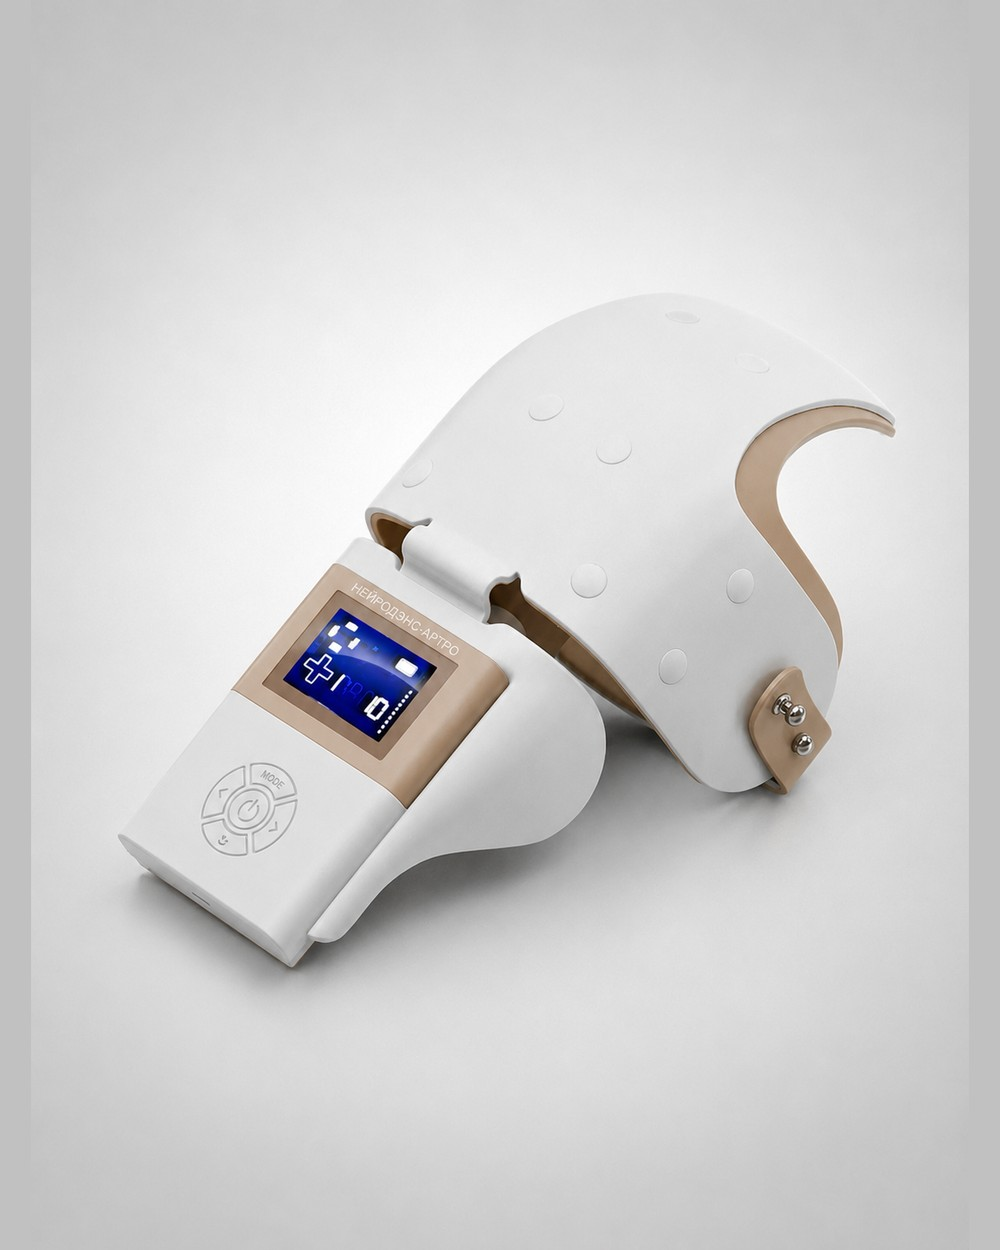
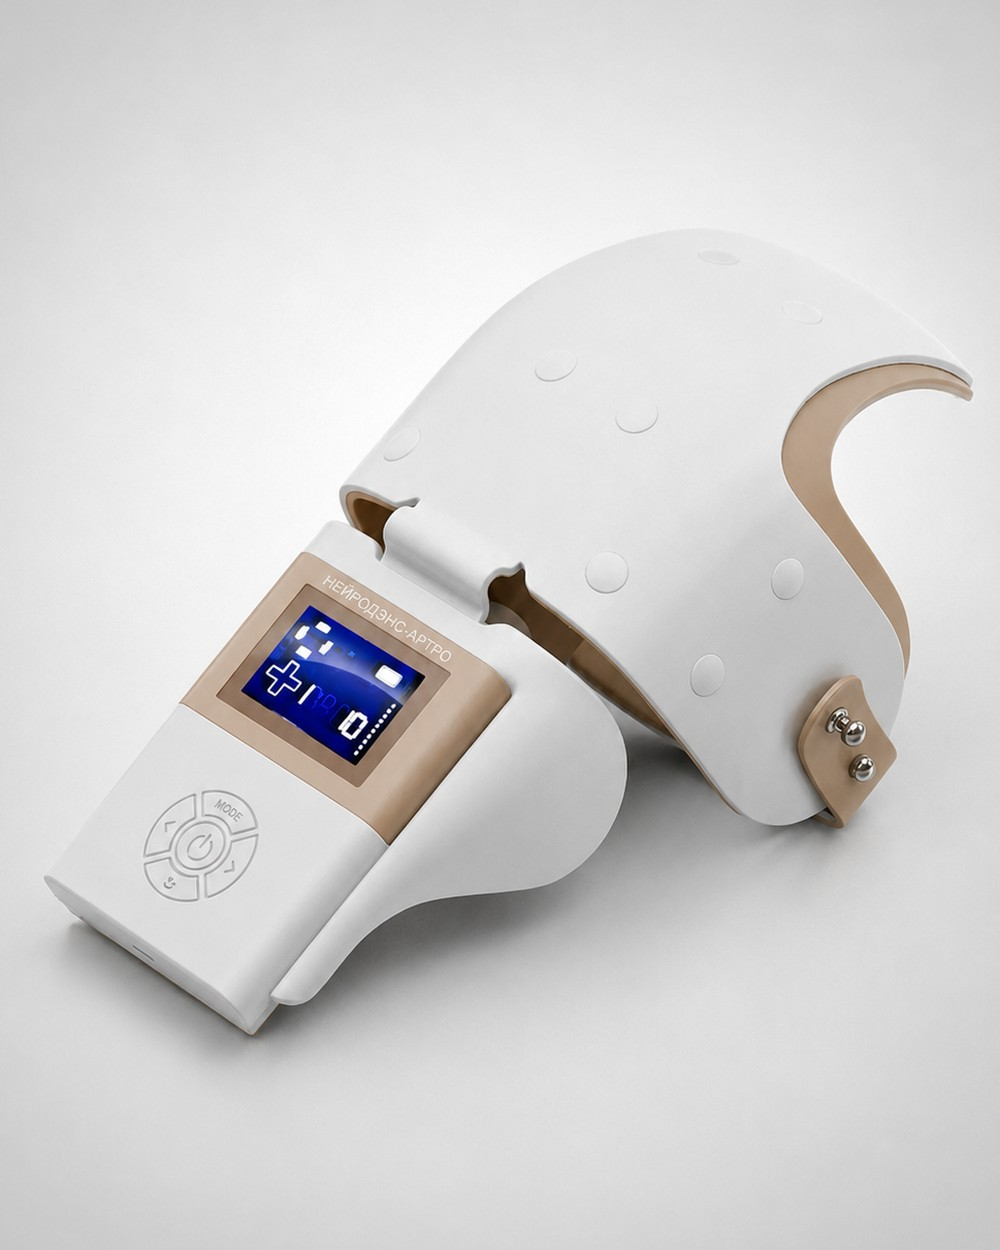
Артро: кроп в 4:5 без боковых полос (крупнее в кадре), кэш v=3

diff --git a/index.html b/index.html
@@ -372,7 +372,7 @@ section[id],a[id]{scroll-margin-top:88px}
       <a href="#apparaty" class="btn">Выбрать аппарат</a>
     </div>
     <div class="hero-media">
-      <img src="artro.jpg?v=2" alt="Медицинский аппарат НейроДЭНС·Артро для коленного сустава" width="1000" height="1250" fetchpriority="high">
+      <img src="artro.jpg?v=3" alt="Медицинский аппарат НейроДЭНС·Артро для коленного сустава" width="1000" height="1250" fetchpriority="high">
     </div>
   </div>
 </section>
@@ -418,7 +418,7 @@ section[id],a[id]{scroll-margin-top:88px}
       <article class="card">
         <a class="card-photo" href="#artro">
           <span class="badge">Для коленного сустава</span>
-          <img loading="lazy" decoding="async" src="artro.jpg?v=2" alt="НейроДЭНС·Артро" onerror="this.style.display='none';this.nextElementSibling.style.display='flex'">
+          <img loading="lazy" decoding="async" src="artro.jpg?v=3" alt="НейроДЭНС·Артро" onerror="this.style.display='none';this.nextElementSibling.style.display='flex'">
           <span class="ph" style="display:none;position:absolute;inset:0;align-items:center;justify-content:center">фото аппарата</span>
         </a>
         <div class="card-body">
@@ -489,9 +489,9 @@ section[id],a[id]{scroll-margin-top:88px}
   <div class="container">
     <div class="detail-inner">
       <div class="gallery">
-        <div class="main"><img loading="lazy" decoding="async" id="artro-main" src="artro.jpg?v=2" alt="НейроДЭНС·Артро"></div>
+        <div class="main"><img loading="lazy" decoding="async" id="artro-main" src="artro.jpg?v=3" alt="НейроДЭНС·Артро"></div>
         <div class="thumbs">
-          <button class="active" onclick="swap('artro-main','artro.jpg?v=2',this)"><img loading="lazy" decoding="async" src="artro.jpg?v=2" alt="Аппарат Артро"></button>
+          <button class="active" onclick="swap('artro-main','artro.jpg?v=3',this)"><img loading="lazy" decoding="async" src="artro.jpg?v=3" alt="Аппарат Артро"></button>
           <button onclick="swap('artro-main','artro-use.jpg?v=2',this)"><img loading="lazy" decoding="async" src="artro-use.jpg?v=2" alt="Артро на колене"></button>
           <button onclick="swap('artro-main','artro-kit.jpg?v=2',this)"><img loading="lazy" decoding="async" src="artro-kit.jpg?v=2" alt="Артро — комплект поставки"></button>
         </div>